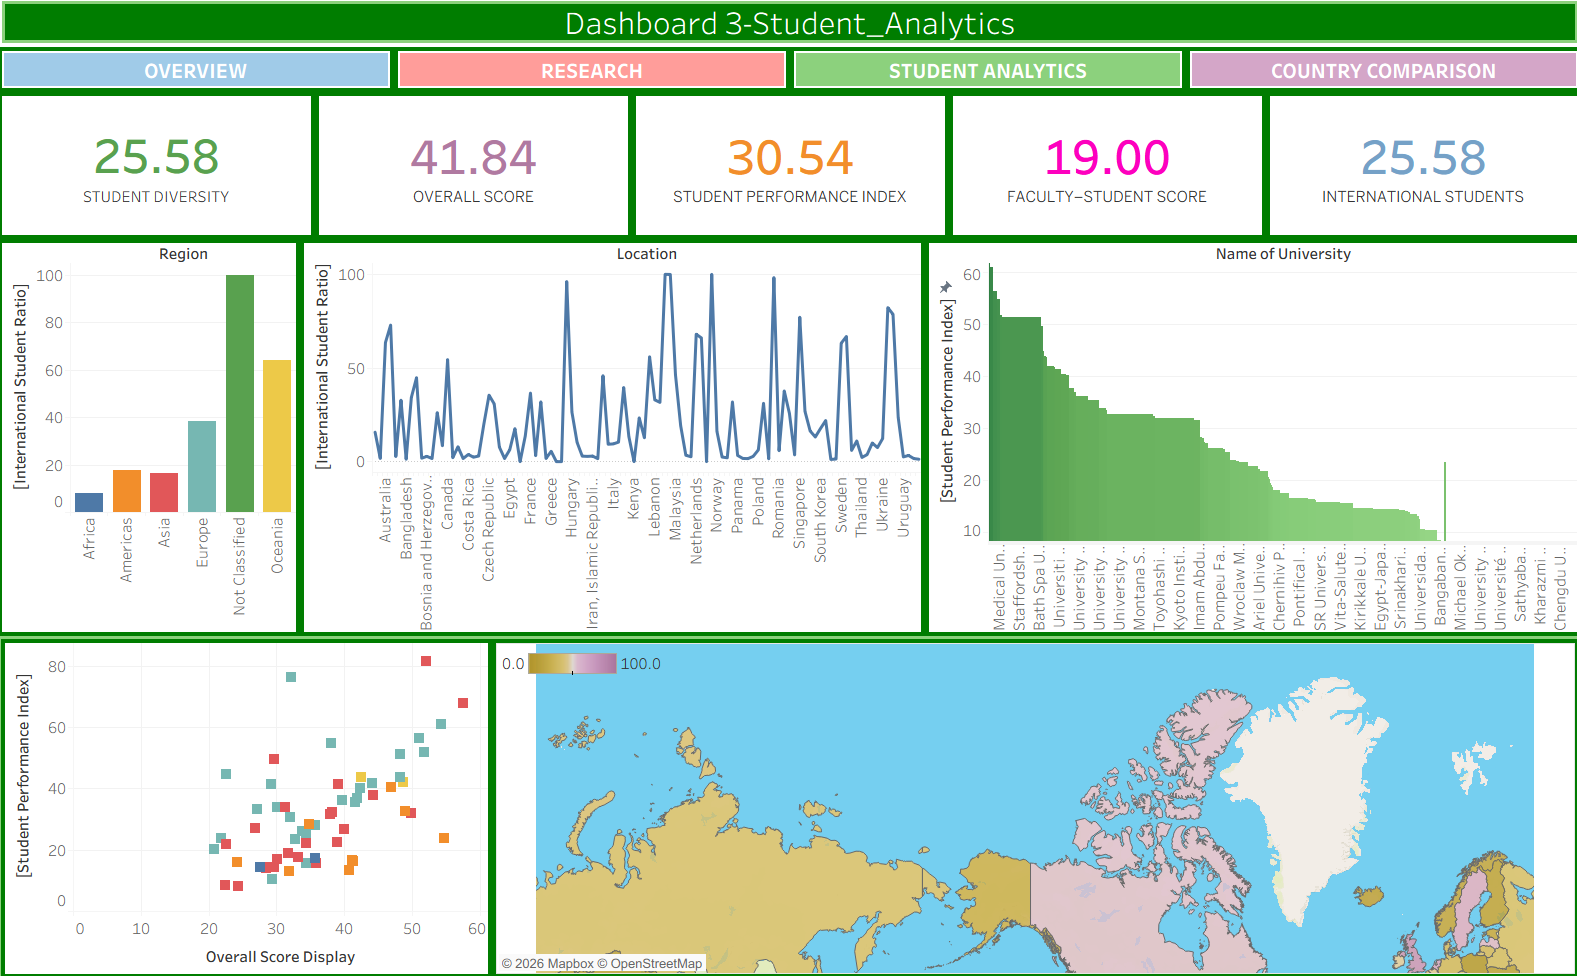
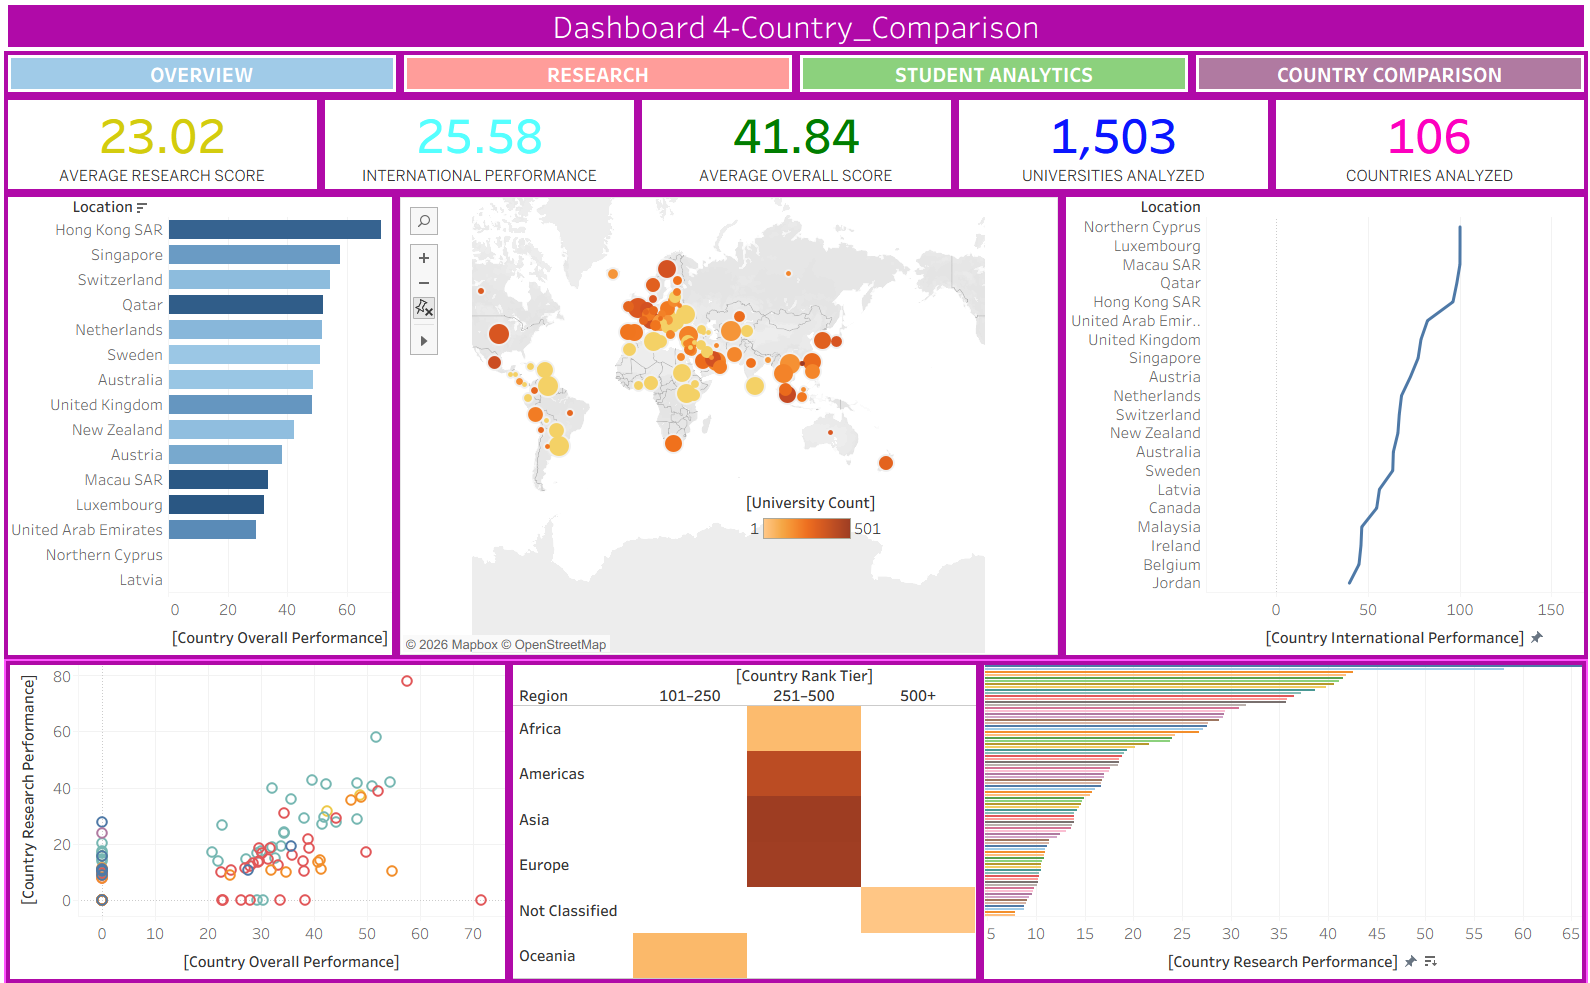
docs: fix dashboard image paths in README files to match documentation/Screenshots/ case and filenames

diff --git a/README.md b/README.md
@@ -76,15 +76,15 @@ The core objective of this project is to eliminate data fragmentation across dis
 
 ## Project Architecture
 
-The project is structured into **4 functional core modules** supported by a dedicated **Documentation** folder.
+The project is structured into **4 functional core modules** supported by a dedicated **documentation** folder.
 
 ```text
-PROJECT_ROOT/
+EduVision_DV/
 ├── 01_Data_Ingestion_and_Cleaning/
 ├── 02_Integration_and_Data_Model/
 ├── 03_KPI_Engineering_and_Quality_Audit/
 ├── 04_BI_Dashboards_and_Visualization/
-└── Documentation/
+└── documentation/
 ```
 
 ### Module 1 — Data Ingestion and Cleaning (`01_Data_Ingestion_and_Cleaning/`)
@@ -150,27 +150,27 @@ Explore the live interactive dashboard on Tableau Public:
 ## Dashboard Screenshots
 
 ### 1. Overview Dashboard
-![Overview Dashboard](Documentation/Screenshots/dashboard_overview.png)
+![Overview Dashboard](documentation/Screenshots/Overview.png)
 
 ### 2. Research Analytics Dashboard
-![Research Analytics Dashboard](Documentation/Screenshots/dashboard_research.png)
+![Research Analytics Dashboard](documentation/Screenshots/Research.png)
 
 ### 3. Student Analytics Dashboard
-![Student Analytics Dashboard](Documentation/Screenshots/dashboard_student.png)
+![Student Analytics Dashboard](documentation/Screenshots/Student_analytic.png)
 
 ### 4. Country Comparison Dashboard
-![Country Comparison Dashboard](Documentation/Screenshots/dashboard_country.png)
+![Country Comparison Dashboard](documentation/Screenshots/Country_comparison.png)
 
 ---
 
 ## Project Documentation
 
-All non-code presentation and documentation materials are located in the top-level `Documentation/` folder:
+All non-code presentation and documentation materials are located in the top-level `documentation/` folder:
 
-- **Presentation (`Documentation/PPT/`)**: Project presentation slide deck (`Project_Presentation.pptx`).
-- **Tableau Documentation (`Documentation/Tableau/`)**: `Tableau_Dashboard.md` containing the live dashboard URL and visual details.
-- **Screenshots (`Documentation/Screenshots/`)**: Visual preview gallery of all dashboard views.
-- **Documentation Index**: `Documentation/README.md` detailing all assets.
+- **Presentation (`documentation/PPT/`)**: Project presentation slide deck (`Presentation.pptx.pdf`).
+- **Tableau Documentation (`documentation/Tableau/`)**: `Tableau_Dashboard.md` containing the live dashboard URL and visual details.
+- **Screenshots (`documentation/Screenshots/`)**: Visual preview gallery of all dashboard views.
+- **Documentation Index**: `documentation/README.md` detailing all assets.
 
 ---
 
@@ -209,13 +209,17 @@ python 03_KPI_Engineering_and_Quality_Audit/scripts/audit_data_quality.py
 EduVision_DV/
 │
 ├── 01_Data_Ingestion_and_Cleaning/
+│   ├── data/
+│   │   ├── raw/
+│   │   ├── cleaned/
+│   │   ├── processed/
+│   │   └── validation/
 │   ├── notebooks/
 │   │   └── 02_data_cleaning.ipynb
 │   ├── reports/
 │   │   ├── dataset_validation_report.csv
 │   │   ├── dataset_validation_report.md
 │   │   ├── dataset_profile.json
-│   │   ├── post_cleaning_validation.csv
 │   │   └── cleaning_log.md
 │   ├── scripts/
 │   │   ├── profile_data.py
@@ -223,12 +227,13 @@ EduVision_DV/
 │   └── README.md
 │
 ├── 02_Integration_and_Data_Model/
+│   ├── data/
+│   │   ├── final/
+│   │   └── warehouse/
 │   ├── notebooks/
 │   │   ├── 03_standardization_and_ids.ipynb
 │   │   └── 04_kpi_engineering_and_final_data.ipynb
 │   ├── reports/
-│   │   ├── university_matching_candidates.csv
-│   │   ├── university_matching_report.md
 │   │   └── final_data_model_validation.csv
 │   ├── scripts/
 │   │   ├── build_standardization_pipeline.py
@@ -252,8 +257,8 @@ EduVision_DV/
 │   └── README.md
 │
 ├── 04_BI_Dashboards_and_Visualization/
+│   ├── Dim_&_Fact_Datasets/
 │   ├── UNIVERSITY_OVERVIEW/
-│   │   └── tableau_dashboard_1_university_overview_guide.md
 │   ├── RESEARCH_ANALYTICS/
 │   ├── STUDENT_ANALYTICS/
 │   ├── COUNTRY_COMPARISON/
@@ -261,30 +266,18 @@ EduVision_DV/
 │   ├── EduVision_Module2_Cleaning.twbx
 │   └── README.md
 │
-├── Documentation/
-│   ├── PPT/
-│   │   └── (Project_Presentation.pptx placeholder)
-│   ├── Tableau/
-│   │   └── Tableau_Dashboard.md
-│   ├── Screenshots/
-│   │   ├── dashboard_overview.png
-│   │   ├── dashboard_research.png
-│   │   ├── dashboard_student.png
-│   │   └── dashboard_country.png
-│   └── README.md
-│
-├── Data/
-│   ├── raw/
-│   ├── cleaned/
-│   ├── processed/
-│   ├── final/
-│   └── warehouse/
-│
-├── Dim_&_Fact_Datasets/
-├── documentation/
-├── LICENSE
-├── README.md
-└── .gitignore
+└── documentation/
+    ├── PPT/
+    │   └── Presentation.pptx.pdf
+    ├── Tableau/
+    │   └── Tableau_Dashboard.md
+    ├── Screenshots/
+    │   ├── Overview.png
+    │   ├── Research.png
+    │   ├── Student_analytic.png
+    │   └── Country_comparison.png
+    ├── scripts/
+    └── README.md
 ```
 
 ---

diff --git a/04_BI_Dashboards_and_Visualization/README.md b/04_BI_Dashboards_and_Visualization/README.md
@@ -4,16 +4,26 @@
 Module 04 organizes the Business Intelligence layer, hosting Tableau workbook files, calculated field definitions, dashboard layout guides, and interactive visualization specifications across four core institutional views.
 
 ## Core Analytics Dashboards
-1. **University Overview**: Institutional ranking leaderboard, KPI summary cards, reputation radar trends, and multi-metric side-by-side comparison tables.
-2. **Research Analytics**: Research productivity vs citation impact scatter plots, subject area breakdowns, and citation distribution maps.
-3. **Student Analytics**: International student percentage maps, faculty capacity distribution histograms, and diversity benchmark scatter charts.
-4. **Country Comparison**: Country-level higher education sector heatmaps, public education expenditure vs ranking performance scatter plots, and World Bank indicator trends.
+
+### 1. University Overview
+![University Overview Dashboard](../documentation/Screenshots/Overview.png)
+
+### 2. Research Analytics
+![Research Analytics Dashboard](../documentation/Screenshots/Research.png)
+
+### 3. Student Analytics
+![Student Analytics Dashboard](../documentation/Screenshots/Student_analytic.png)
+
+### 4. Country Comparison
+![Country Comparison Dashboard](../documentation/Screenshots/Country_comparison.png)
+
+---
 
 ## Module Structure
 ```text
 04_BI_Dashboards_and_Visualization/
+├── Dim_&_Fact_Datasets/
 ├── UNIVERSITY_OVERVIEW/
-│   └── tableau_dashboard_1_university_overview_guide.md
 ├── RESEARCH_ANALYTICS/
 ├── STUDENT_ANALYTICS/
 ├── COUNTRY_COMPARISON/
@@ -26,3 +36,4 @@ Module 04 organizes the Business Intelligence layer, hosting Tableau workbook fi
 - `Infosys_Edu_Vision.twb`: Tableau Workbook connection specification.
 - `EduVision_Module2_Cleaning.twbx`: Packaged Tableau Workbook.
 - Layout guides in `UNIVERSITY_OVERVIEW/`, `RESEARCH_ANALYTICS/`, `STUDENT_ANALYTICS/`, `COUNTRY_COMPARISON/`.
+
